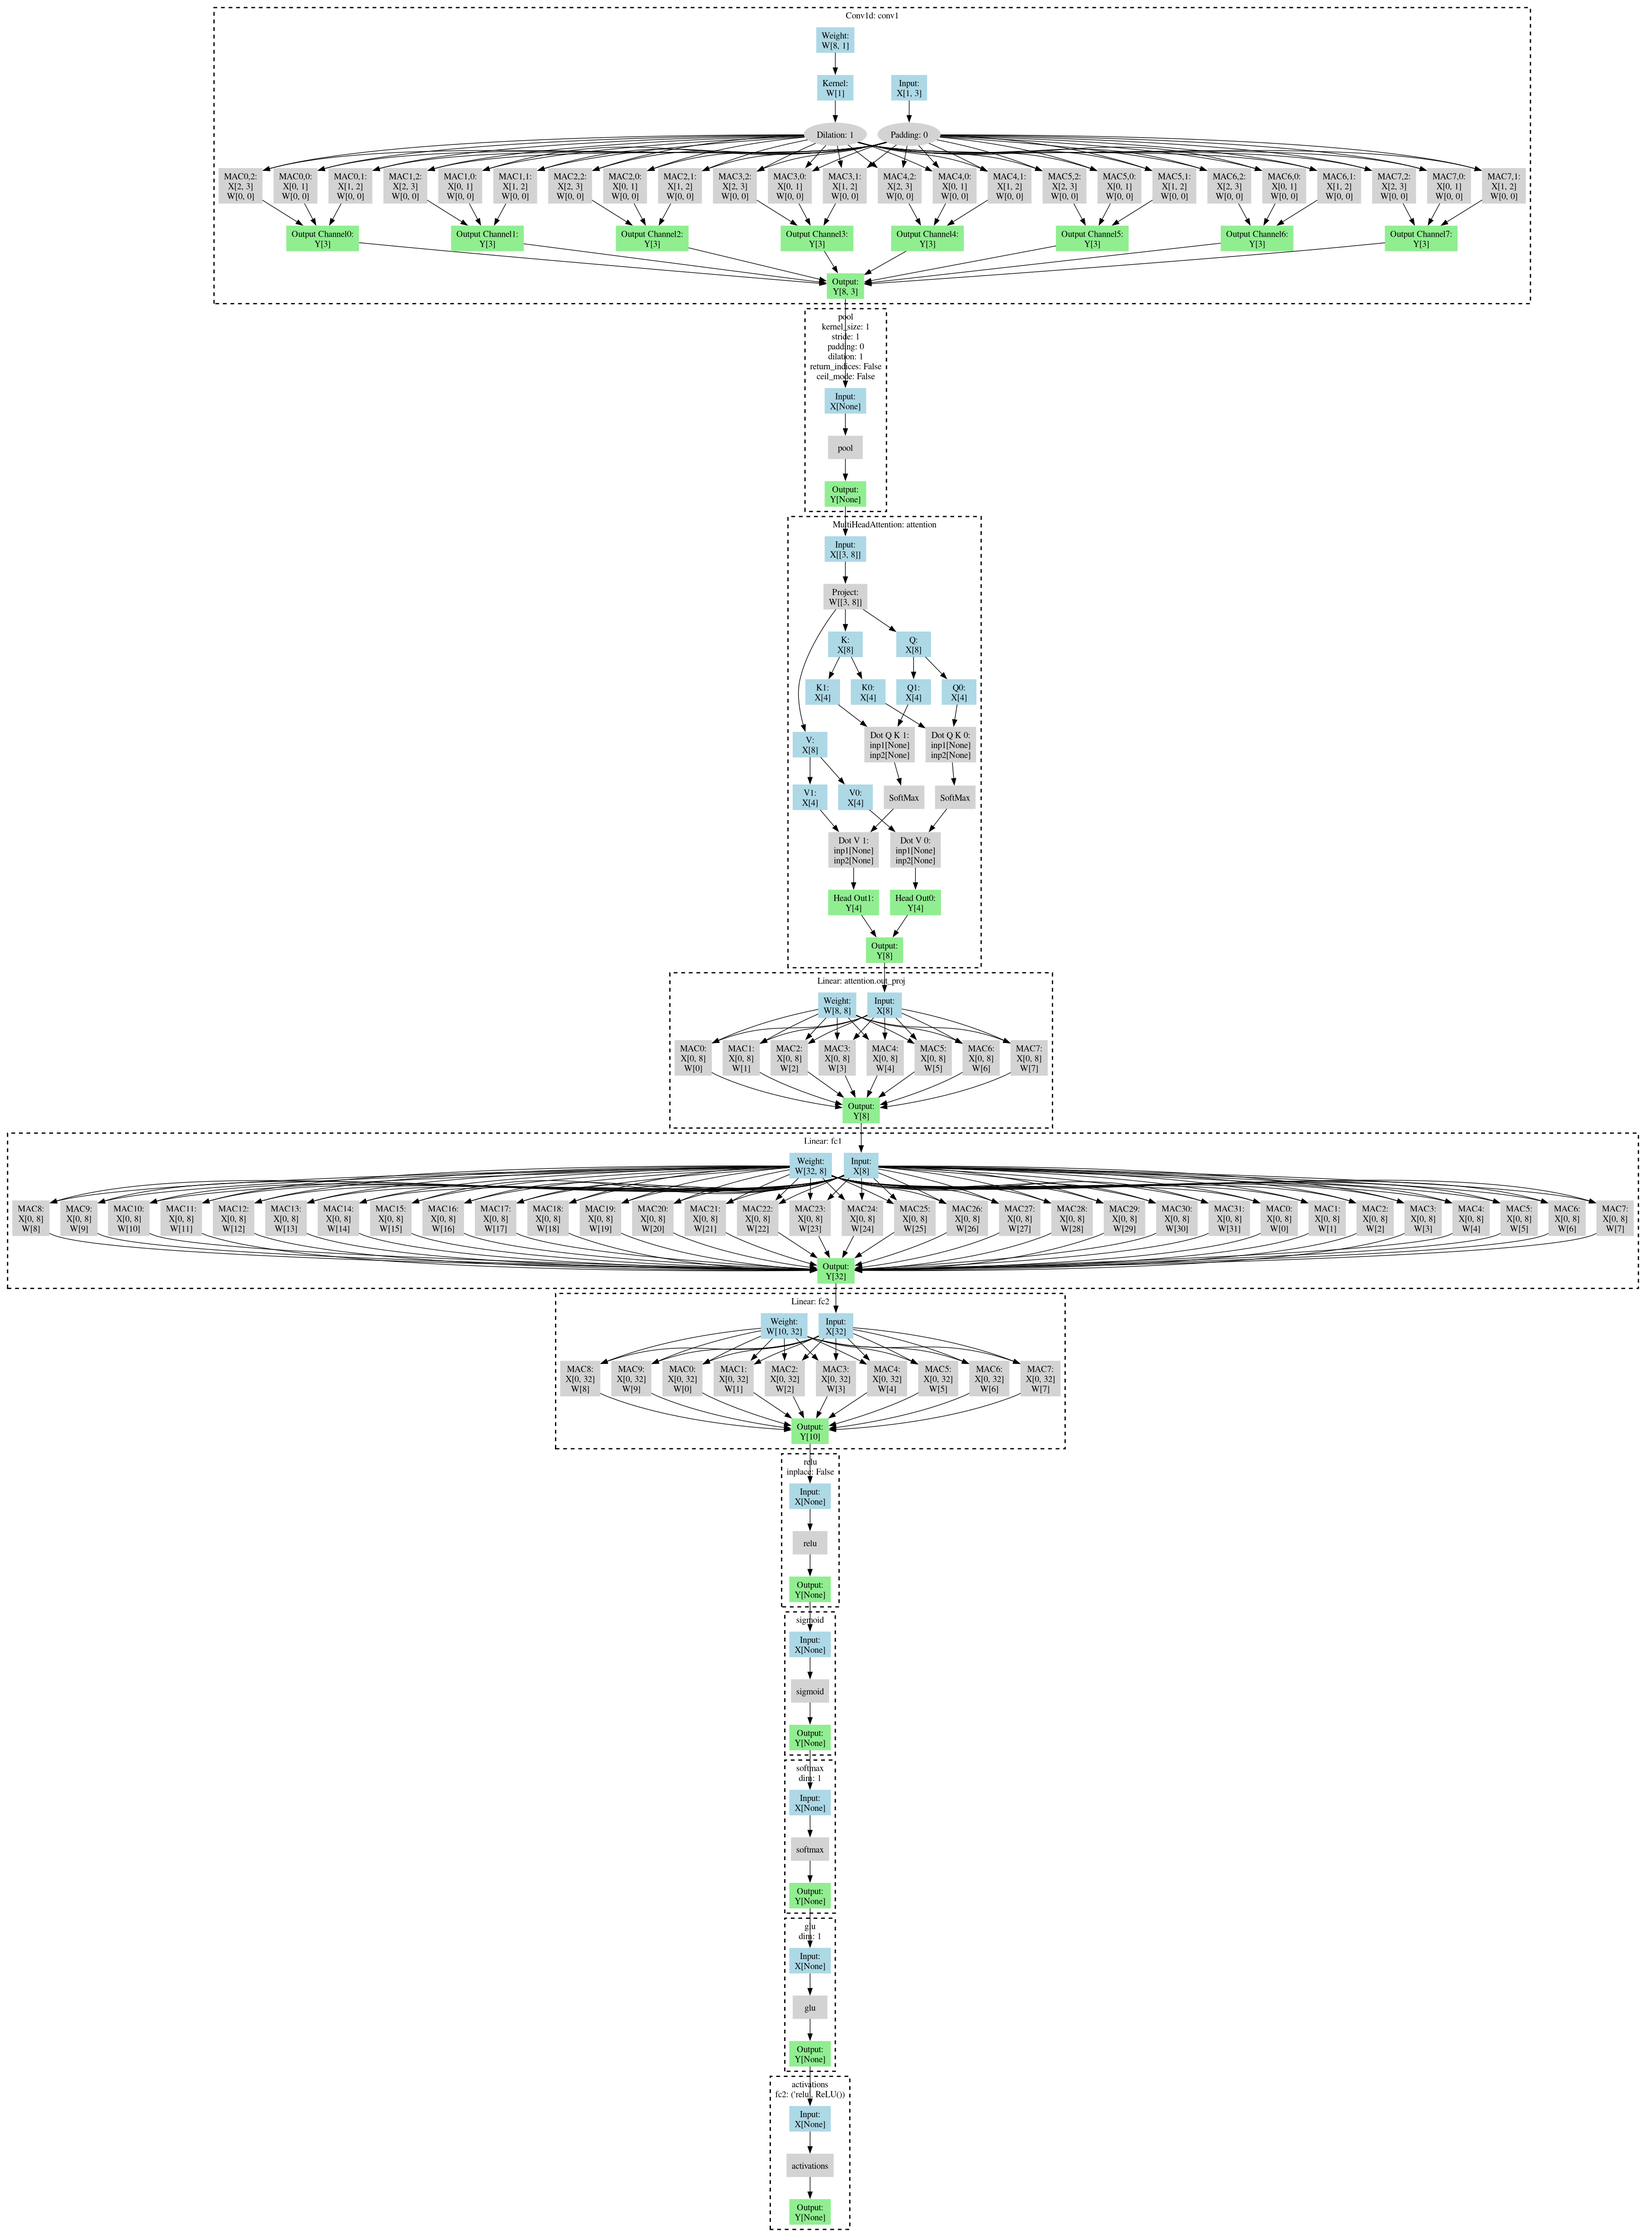
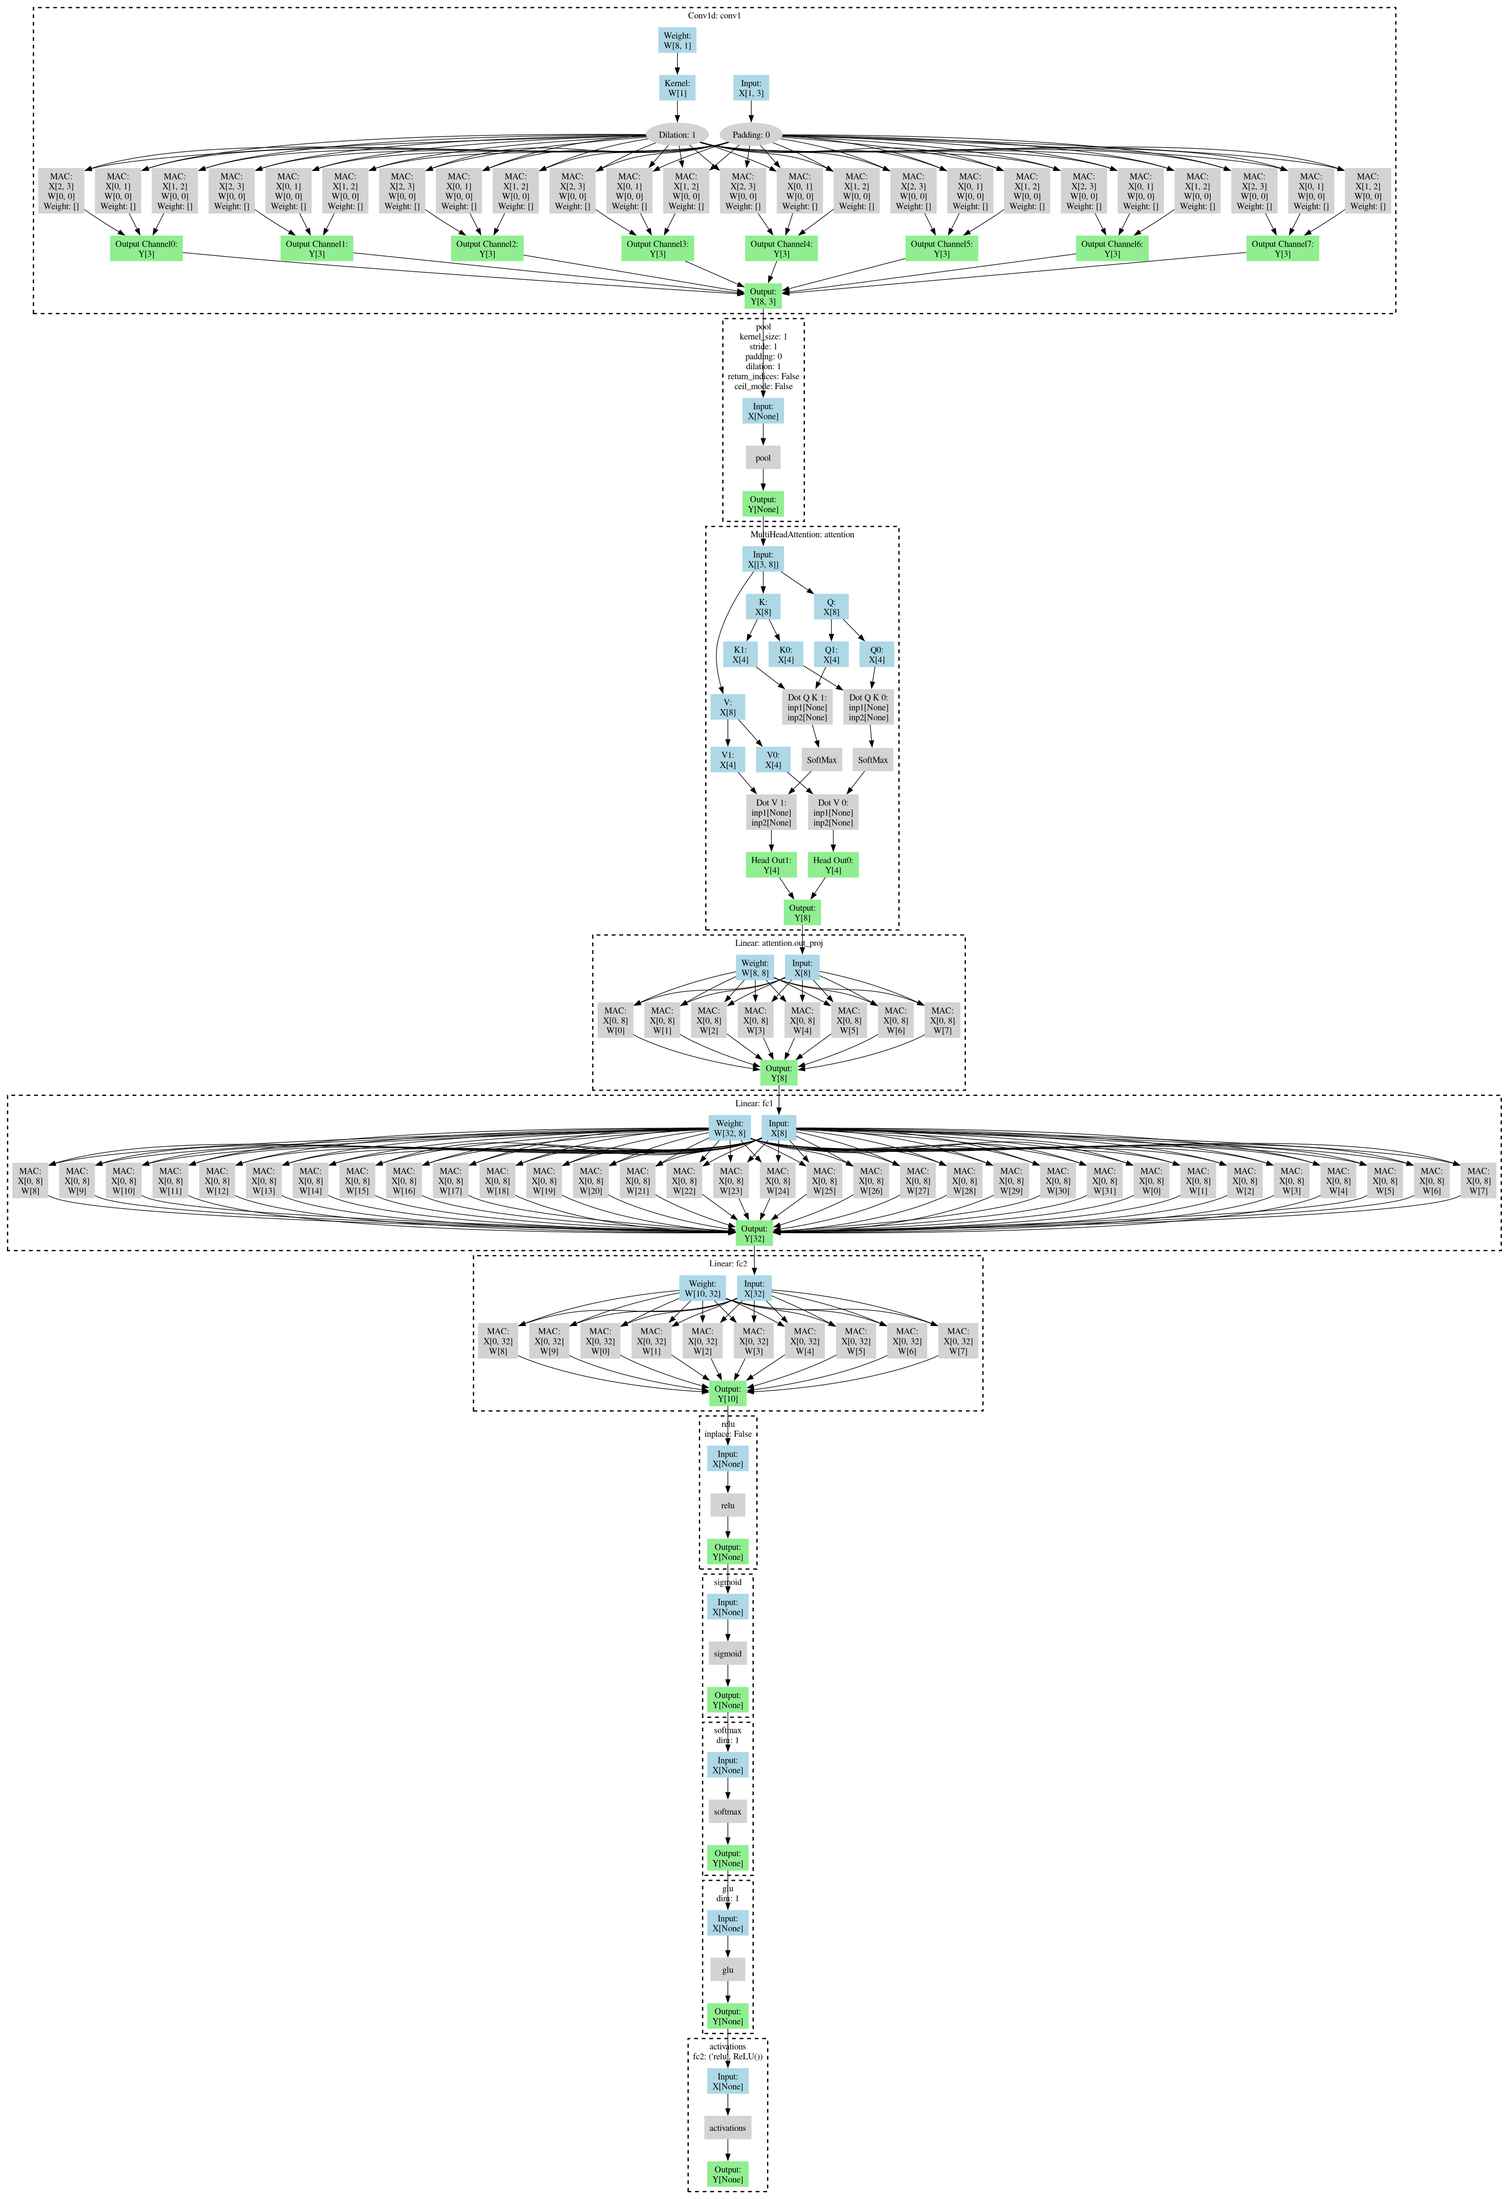
attention fixed

Changed region(s): [[0.0, 0.0, 1.0, 0.9989]]

diff --git a/nngraph/layer.py b/nngraph/layer.py
@@ -93,7 +93,7 @@ class Layer(nx.DiGraph):
 
 class Conv1dLayer(Layer):
     def __init__(self, name:str, in_channels, out_channels, kernel_size, input_length,
-                stride=[1], padding=[1], dilation=[1], bias=None, sparsity=0.0, label="Conv1d"):
+                stride=[1], padding=[1], dilation=[1], bias=None, weight=None, sparsity=0.0, label="Conv1d"):
         super().__init__(name, LayerType.CONV1D, label+": "+name, False)
         self.in_channels=in_channels
         self.out_channels=out_channels
@@ -103,8 +103,8 @@ class Conv1dLayer(Layer):
         self.padding = padding[0]
         self.dilation = dilation[0]
         self.sparsity = sparsity
-        # self.weight = nn.Parameter(torch.randn(out_channels, in_channels, kernel_size))
-        # self.bias = nn.Parameter(torch.zeros(out_channels)) if bias is None else bias
+        self.weight = weight
+        self.bias = nn.Parameter(torch.zeros(out_channels)) if bias is None else bias
         
         self._build_operations()
 
@@ -143,12 +143,18 @@ class Conv1dLayer(Layer):
                 input_start = j * self.stride - self.padding
                 weight_start = 0 
                 weight_end = self.kernel_size - 1
+                
+                mac = MacOP(mac_node_name, [input_start, input_start+self.kernel_size],
+                                [weight_start, weight_end], "MAC" + str(i) + "," + str(j))
+                if self.weight is not None:
+                    mac.weight = self.weight[weight_start:weight_end]
 
-                self.add_node(MacOP(mac_node_name, [input_start, input_start+self.kernel_size],
-                                [weight_start, weight_end], "MAC" + str(i) + "," + str(j)))                
+                self.add_node(mac)                
                 self.add_edge(self.get_node('Padding' + self.name), self.get_node(mac_node_name))
                 self.add_edge(self.get_node('Dilation' + self.name), self.get_node(mac_node_name))
                 self.add_edge(self.get_node(mac_node_name), self.get_node('Output_c' + str(i) + self.name))
+
+
         
         for i in range(self.out_channels):
             self.add_edge(self.get_node('Output_c' + str(i) + self.name), self.get_node('Output' + self.name))
@@ -158,7 +164,7 @@ class Conv1dLayer(Layer):
 
 class Conv2dLayer(Layer):
     def __init__(self, name: str, in_channels, out_channels, kernel_size, input_height, input_width,
-                 stride=[1, 1], padding=[1, 1], dilation=[1, 1], bias=None, sparsity=0.0, label="Conv2d"):
+                 stride=[1, 1], padding=[1, 1], dilation=[1, 1], bias=None, weight=None, sparsity=0.0, label="Conv2d"):
         super().__init__(name, LayerType.CONV2D, label + ": " + name, False)
         self.in_channels = in_channels
         self.out_channels = out_channels
@@ -169,6 +175,7 @@ class Conv2dLayer(Layer):
         self.padding = padding
         self.dilation = dilation
         self.sparsity = sparsity
+        self.weight=weight
         
         self._build_operations()
 
@@ -213,11 +220,16 @@ class Conv2dLayer(Layer):
                     weight_end_h = self.kernel_size[0] - 1
                     weight_end_w = self.kernel_size[1] - 1
 
-                    self.add_node(MacOP(mac_node_name, 
+                    mac = MacOP(mac_node_name, 
                                         [[input_start_h, input_start_h + self.kernel_size[0]], 
                                         [input_start_w, input_start_w + self.kernel_size[1]]],
                                         [[weight_start_h, weight_end_h], [weight_start_w, weight_end_w]], 
-                                        "MAC" + str(i) + "," + str(j) + "," + str(k)))                
+                                        "MAC" + str(i) + "," + str(j) + "," + str(k))
+                    if isinstance(self.weight, torch.Tensor):
+                        mac.weight = self.weight
+                        print(self.weight.shape)
+
+                    self.add_node(mac)                
                     self.add_edge(self.get_node('Padding' + self.name), self.get_node(mac_node_name))
                     self.add_edge(self.get_node('Dilation' + self.name), self.get_node(mac_node_name))
                     self.add_edge(self.get_node(mac_node_name), self.get_node('Output_c' + str(i) + self.name))
@@ -323,15 +335,15 @@ class MHAttentionLayer(Layer):
         # blue
         self.add_node(InputOP("Input" + self.name, [self.input_shape]))
         self.add_input(self.get_node('Input' + self.name))
-        self.add_node(ProjectOP("Project" + self.name, [self.input_shape]))
-        self.add_edge(self.get_node("Input" + self.name), self.get_node("Project" + self.name))
+        # self.add_node(ProjectOP("Project" + self.name, [self.input_shape]))
+        # self.add_edge(self.get_node("Input" + self.name), self.get_node("Project" + self.name))
 
         self.add_node(InputOP("Q" + self.name, [self.embed_dim], "Q"))
         self.add_node(InputOP("K" + self.name, [self.embed_dim], "K"))
         self.add_node(InputOP("V" + self.name, [self.embed_dim], "V"))
-        self.add_edge(self.get_node("Project" + self.name), self.get_node("Q" + self.name))
-        self.add_edge(self.get_node("Project" + self.name), self.get_node("K" + self.name))
-        self.add_edge(self.get_node("Project" + self.name), self.get_node("V" + self.name))
+        self.add_edge(self.get_node("Input" + self.name), self.get_node("Q" + self.name))
+        self.add_edge(self.get_node("Input" + self.name), self.get_node("K" + self.name))
+        self.add_edge(self.get_node("Input" + self.name), self.get_node("V" + self.name))
 
         for i in range(self.num_heads):
             self.add_node(InputOP("Q" + str(i) + self.name, [self.embed_dim // self.num_heads], "Q" + str(i)))
@@ -362,5 +374,4 @@ class MHAttentionLayer(Layer):
         # macs
         for i in range(self.num_heads):
             self.add_edge(self.get_node("HeadOutput" + str(i) + self.name), self.get_node("Output" + self.name))
-
-            
+  

diff --git a/nngraph/graph.py b/nngraph/graph.py
@@ -103,6 +103,7 @@ class Graph(nx.DiGraph):
 
         return y
 
+    #TODO: external layer addition
     def _build_layer(self, name, input_len=3)->Layer: #TODO: add output shapes for each layer
         if self._get_layer_type(name) == 'conv1d':
             in_channels=int(self.pkl_dump[name]['in_channels'])
@@ -113,7 +114,7 @@ class Graph(nx.DiGraph):
             dilation=[1] # change if added
 
             return Conv1dLayer(name, in_channels, out_channels, kernel_size,
-                                input_len, stride, padding, dilation) # may add sparsity
+                                input_len, stride, padding, dilation, weight=self.pkl_dump[name]['_parameters']['weight']) # may add sparsity
 
         elif self._get_layer_type(name) == 'conv2d':
             in_channels=int(self.pkl_dump[name]['in_channels'])
@@ -124,7 +125,7 @@ class Graph(nx.DiGraph):
             dilation=[1, 1] # change if added
 
             return Conv2dLayer(name, in_channels, out_channels, kernel_size,
-                                input_len, input_len, stride, padding, dilation) # may add sparsity
+                                input_len, input_len, stride, padding, dilation, weight=self.pkl_dump[name]['_parameters']['weight']) # may add sparsity
 
         elif self._get_layer_type(name) == 'linear':
             in_features = int(self.pkl_dump[name]['in_features'])
@@ -135,7 +136,7 @@ class Graph(nx.DiGraph):
         elif self._get_layer_type(name) == 'attention':
             embed_dim = int(self.pkl_dump[name]['embed_dim'])
             num_heads = int(self.pkl_dump[name]['num_heads'])
-
+            print(self.pkl_dump[name])
             return MHAttentionLayer(name, [input_len, 8], embed_dim, num_heads) # fix if output added
             
         else:

diff --git a/nngraph/operation.py b/nngraph/operation.py
@@ -60,15 +60,20 @@ class DilationOP(Operation):
         return self.label + ": " + str(self.dilation)
 
 class MacOP(Operation):
-    def __init__(self, name:str, input_index, weight_index, label:str="MAC"):
+    def __init__(self, name:str, input_index, weight_index, weight=None, label:str="MAC"):
         super().__init__(name, OperationType.MAC, label)
         self.input_index=input_index
         self.weight_index=weight_index
+        self.weight=weight
 
     def get_label(self):
         printable = self.label + ":" 
         printable += "\nX" + str(self.input_index) 
         printable += "\nW" + str(self.weight_index)
+
+        if isinstance(self.weight, torch.Tensor):
+            printable += "\nWeight: " + str([i.item() for i in self.weight])
+
         return printable
 
 class ConstOP(Operation):
